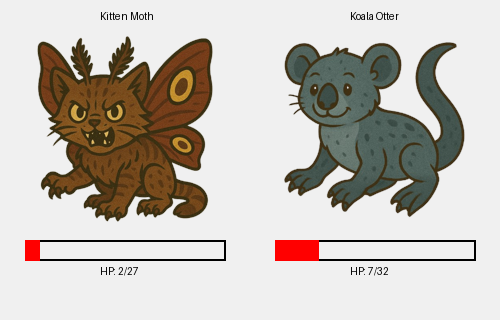
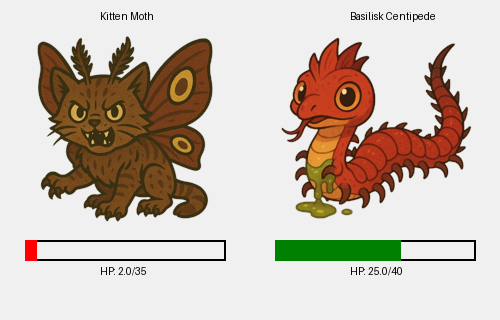
completed battle endscreen and debugged battle duplication

diff --git a/Structures/battlesystem.py b/Structures/battlesystem.py
@@ -12,18 +12,19 @@ class battlesystem:
         self.opponent = opponent
         self.challenger = challenger
         self.battlestate = {}
-        self.output_path=f"PICTURES/battle_preview{self.challenger["_id"]}.png"
-
+        self.output_path = f"PICTURES/battle_preview{self.challenger['_id']}.png"
+        self.battle_started = False
 
 
     async def battlestart(self):
         pets1 = self.challenger.get("pets", [])
         pets2 = self.opponent.get("pets", [])
 
-        # Get members for challenger and opponent to mention them properly
+        # Get Discord members
         challenger_member = self.message.guild.get_member(self.challenger['_id'])
         opponent_member = self.message.guild.get_member(self.opponent['_id'])
 
+        # Embed showing both players' pets (no buttons yet)
         embed1 = discord.Embed(title=f"{challenger_member.display_name}'s pets", color=discord.Color.green())
         for i, pet in enumerate(pets1, start=1):
             embed1.add_field(name=f"{i}. {pet['name']}", value=pet["rarity"], inline=True)
@@ -32,41 +33,13 @@ class battlesystem:
         for i, pet in enumerate(pets2, start=1):
             embed2.add_field(name=f"{i}. {pet['name']}", value=pet["rarity"], inline=True)
 
+        await self.message.channel.send(embeds=[embed1, embed2])
+
+        # --- STEP 1: Challenger Chooses ---
         challenger_choice = None
-        opponent_choice = None
-        selection_event = asyncio.Event()
-
-        # Create two separate views for challenger and opponent
         challenger_view = View(timeout=60)
-        opponent_view = View(timeout=60)
+        challenger_event = asyncio.Event()
 
-        async def check_done(interaction):
-            if challenger_choice and opponent_choice:
-                selection_event.set()
-                await interaction.message.edit(view=None)
-                await self.message.channel.send(
-                    f"⚔ Both players have selected!\n"
-                    f"**{challenger_member.mention}** chose: `{challenger_choice[1]}`\n"
-                    f"**{opponent_member.mention}** chose: `{opponent_choice[1]}`"
-                )
-                pet1 = pets1[challenger_choice[0]-1]
-                pet2 = pets2[opponent_choice[0]-1]
-                self.battlestate = {
-                "hp":{
-                    self.challenger["_id"] : pet1["base_hp"],
-                    self.opponent["_id"] : pet2["base_hp"]
-                },
-                "buffs" : {},
-                "status_effects" : {},
-                "used_abilities" : set(),
-                "ongoing_effects": {
-                    self.challenger["_id"] : [],
-                    self.opponent["_id"] : []
-                }
-                }
-                await self.battling(pet1,pet2,self.message,self.client)
-
-        # Challenger's buttons
         for i, pet in enumerate(pets1, start=1):
             async def make_callback(interaction, index=i, pet_name=pet["name"]):
                 nonlocal challenger_choice
@@ -75,12 +48,28 @@ class battlesystem:
                 if not challenger_choice:
                     challenger_choice = (index, pet_name)
                     await interaction.response.send_message(f"✅ You selected pet #{index}: **{pet_name}**", ephemeral=True)
-                    await check_done(interaction)
-            btn = Button(label=f"{i}", style=discord.ButtonStyle.green, custom_id=f"challenger_{i}")
+                    challenger_event.set()
+
+            btn = Button(label=f"{i}", style=discord.ButtonStyle.green)
             btn.callback = make_callback
             challenger_view.add_item(btn)
 
-        # Opponent's buttons
+        await self.message.channel.send(
+            content=f"{challenger_member.mention}, choose your pet:",
+            view=challenger_view
+        )
+
+        try:
+            await asyncio.wait_for(challenger_event.wait(), timeout=60)
+        except asyncio.TimeoutError:
+            await self.message.channel.send("⏰ Challenger didn't pick in time. Battle cancelled.")
+            return
+
+        # --- STEP 2: Opponent Chooses ---
+        opponent_choice = None
+        opponent_view = View(timeout=60)
+        opponent_event = asyncio.Event()
+
         for i, pet in enumerate(pets2, start=1):
             async def make_callback(interaction, index=i, pet_name=pet["name"]):
                 nonlocal opponent_choice
@@ -89,22 +78,48 @@ class battlesystem:
                 if not opponent_choice:
                     opponent_choice = (index, pet_name)
                     await interaction.response.send_message(f"✅ You selected pet #{index}: **{pet_name}**", ephemeral=True)
-                    await check_done(interaction)
-            btn = Button(label=f"{i}", style=discord.ButtonStyle.blurple, custom_id=f"opponent_{i}")
+                    opponent_event.set()
+
+            btn = Button(label=f"{i}", style=discord.ButtonStyle.blurple)
             btn.callback = make_callback
             opponent_view.add_item(btn)
 
-        # Send messages with different views for each player
-        msg1 = await self.message.channel.send(embed=embed1, view=challenger_view)
-        msg2 = await self.message.channel.send(embed=embed2, view=opponent_view)
+        await self.message.channel.send(
+            content=f"{opponent_member.mention}, now choose your pet:",
+            view=opponent_view
+        )
 
         try:
-            await asyncio.wait_for(selection_event.wait(), timeout=60)
+            await asyncio.wait_for(opponent_event.wait(), timeout=60)
         except asyncio.TimeoutError:
-            if not selection_event.is_set():
-                await msg1.edit(view=None)
-                await msg2.edit(view=None)
-                await self.message.channel.send("⏰ Battle cancelled — one or both players didn’t pick in time.")
+            await self.message.channel.send("⏰ Opponent didn't pick in time. Battle cancelled.")
+            return
+
+        # --- Proceed to Battle ---
+        pet1 = pets1[challenger_choice[0] - 1]
+        pet2 = pets2[opponent_choice[0] - 1]
+
+        await self.message.channel.send(
+            f"⚔ Both players have selected!\n"
+            f"**{challenger_member.mention}** chose: `{pet1['name']}`\n"
+            f"**{opponent_member.mention}** chose: `{pet2['name']}`"
+        )
+
+        self.battlestate = {
+            "hp": {
+                self.challenger["_id"]: pet1["base_hp"],
+                self.opponent["_id"]: pet2["base_hp"]
+            },
+            "buffs": {},
+            "status_effects": {},
+            "used_abilities": set(),
+            "ongoing_effects": {
+                self.challenger["_id"]: [],
+                self.opponent["_id"]: []
+            }
+        }
+
+        await self.battling(pet1, pet2, self.message, self.client)
 
     async def prompt_move_selection(self, user_id, pet, message):
         view = discord.ui.View(timeout=60)
@@ -150,12 +165,12 @@ class battlesystem:
             self.battlestate["buffs"][defender_id]["defense"] -= move["defreduction"]
 
         
-        # if move["numInstances"] > 1 and move["power"] > 0:
-        #     self.battlestate["ongoing_effects"][defender].append({
-        #         "name": move["name"],
-        #         "power": move["power"],
-        #         "turns_left": move["numInstances"]
-        #     })
+        if move["numInstances"] > 1 and move["power"] > 0:
+            self.battlestate["ongoing_effects"][defender_id].append({
+                "name": move["name"],
+                "power": move["power"],
+                "turns_left": move["numInstances"]
+            })
     def draw_hp_bar(self, draw, x, y, width, height, current_hp, max_hp):
         """Draws an HP bar with a black border that shows empty when HP is negative."""
         # Draw the border
@@ -235,8 +250,9 @@ class battlesystem:
         return total_damage
 
     def calculate_damage(self, attacker, defender, move,chal, defen):
-        self.apply_move_effects(move,attacker,defender)
-        atk = max(5,(attacker["attack"] + self.battlestate["buffs"][chal]["attack"]) * move["power"]  / 100 - (defender["defense"] + self.battlestate["buffs"][defen]["defense"])+self.process_ongoing_effects(defen))
+        self.apply_move_effects(move,chal,defen)
+        atk = max(0,(attacker["attack"] + self.battlestate["buffs"][chal]["attack"])  * move["power"]  / (defender["defense"] + self.battlestate["buffs"][defen]["defense"])+self.process_ongoing_effects(defen) - 5)
+        print(atk)
         return atk
     
     async def battling(self, pet1 ,pet2, message, client):
@@ -268,17 +284,17 @@ class battlesystem:
             if(priority == pet1):
                 self.battlestate["hp"][opponent_id] -= dmg1
                 if(self.battlestate["hp"][opponent_id] <= 0):
-                    self.battle_end(self.challenger, self.opponent)
+                    return await self.battle_end(pet1,pet2,self.challenger, self.opponent)
                 self.battlestate["hp"][challenger_id] -= dmg2
             else:
                 self.battlestate["hp"][challenger_id] -= dmg2
                 if(self.battlestate["hp"][challenger_id] <= 0):
-                    await self.battle_end(self.opponent, self.challenger, message)
+                    return await self.battle_end(pet2,pet1,self.opponent, self.challenger)
                 self.battlestate["hp"][opponent_id] -= dmg1
             if(self.battlestate["hp"][opponent_id] <= 0):
-                    await self.battle_end(self.challenger, self.opponent, message)
+                    return await self.battle_end(pet1,pet2,self.challenger, self.opponent)
             if(self.battlestate["hp"][challenger_id] <= 0):
-                    await self.battle_end(self.opponent, self.challenger, message)
+                    return await self.battle_end(pet2,pet1,self.opponent, self.challenger)
             self.generate_battle_image(pet1,pet2)
             file = discord.File(self.output_path, filename="battle.png")
             image_embed = discord.Embed(title=f"⚔ Battle: {pet1['name']} vs {pet2['name']}")
@@ -286,10 +302,10 @@ class battlesystem:
             status_text = (
                 f"**Turn {turn}**\n\n"
                 f"🟢 **{pet1['name']}**\n"
-                f"HP: {max(0, self.battlestate['hp'][challenger_id])}/{pet1['base_hp']} | ATK Buff: {self.battlestate['buffs'][challenger_id]['attack']} | DEF Buff: {self.battlestate['buffs'][challenger_id]['defense']}\n"
+                f"HP: {max(0, self.battlestate['hp'][challenger_id]//1)}/{pet1['base_hp']} | ATK Buff: {self.battlestate['buffs'][challenger_id]['attack']} | DEF Buff: {self.battlestate['buffs'][challenger_id]['defense']}\n"
                 f"Last Move: `{move_challenger['name']}`\n\n"
                 f"🔵 **{pet2['name']}**\n"
-                f"HP: {max(0, self.battlestate['hp'][opponent_id])}/{pet2['base_hp']} | ATK Buff: {self.battlestate['buffs'][opponent_id]['attack']} | DEF Buff: {self.battlestate['buffs'][opponent_id]['defense']}\n"
+                f"HP: {max(0, self.battlestate['hp'][opponent_id]//1)}/{pet2['base_hp']} | ATK Buff: {self.battlestate['buffs'][opponent_id]['attack']} | DEF Buff: {self.battlestate['buffs'][opponent_id]['defense']}\n"
                 f"Last Move: `{move_opponent['name']}`"
             )
             detail_embed = discord.Embed(title=f"Turn {turn}", description=status_text, color=discord.Color.green())
@@ -297,5 +313,14 @@ class battlesystem:
             
             turn += 1
     
-    async def battle_end(self , winner , loser, message):
-        await message.channel.send(f"{winner["_id"].display_name} - winner, {loser["_id"].display_name} - loser")
+    async def battle_end(self ,pet1,pet2, winner , loser):
+            challenger_member = self.message.guild.get_member(winner['_id'])
+            opponent_member = self.message.guild.get_member(loser['_id'])
+            self.output_path = pet1["image"]
+            file = discord.File(self.output_path, filename="battle.png")
+            image_embed = discord.Embed(title=f"{challenger_member.display_name} WINS!!")
+            image_embed.set_image(url="attachment://battle.png")
+            await self.message.channel.send(file = file, embed = image_embed)
+
+
+        

diff --git a/Structures/User.py b/Structures/User.py
@@ -2,6 +2,8 @@ import random
 import json
 with open("./Structures/Pets.json", "r") as f:
     pets = json.load(f)
+with open("./Structures/Skills.json", "r") as f:
+    skills = json.load(f)
 class User:
     def __init__(self, userID, client, money=100, level= 0, cosmetics = []):
         self.userID = userID
@@ -23,14 +25,30 @@ class User:
             self.homeGuild = "Fire"
 
         if self.homeGuild == "Earth" : 
-            self.pets.append(pets["earth"][0])
+            pet = pets["earth"][0]
+            for i in range(3):
+                move = pet["moves"][i]
+                pet["moves"][i] = next(skill for skill in skills[move["type"].lower()] if skill["name"] == move["name"])
+            self.pets.append(pet)
         elif self.homeGuild == "Air" : 
-            self.pets.append(pets["air"][0])
+            pet = pets["air"][0]
+            for i in range(3):
+                move = pet["moves"][i]
+                pet["moves"][i] = next(skill for skill in skills[move["type"].lower()] if skill["name"] == move["name"])
+            self.pets.append(pet)
         elif self.homeGuild == "Water" : 
-            self.pets.append(pets["water"][0])
+            pet = pets["water"][0]
+            for i in range(3):
+                move = pet["moves"][i]
+                pet["moves"][i] = next(skill for skill in skills[move["type"].lower()] if skill["name"] == move["name"])
+            self.pets.append(pet)
         elif self.homeGuild == "Fire" : 
-            self.pets.append(pets["fire"][0])
-        
+            pet = pets["fire"][0]
+            for i in range(3):
+                move = pet["moves"][i]
+                pet["moves"][i] = next(skill for skill in skills[move["type"].lower()] if skill["name"] == move["name"])
+            self.pets.append(pet)
+
         self.client.guildsCollection.update_one({"_id": self.homeGuild}, {"$push": {"members": self.userID}})
         self.visitingGuild = self.homeGuild
     def to_dict(self):
